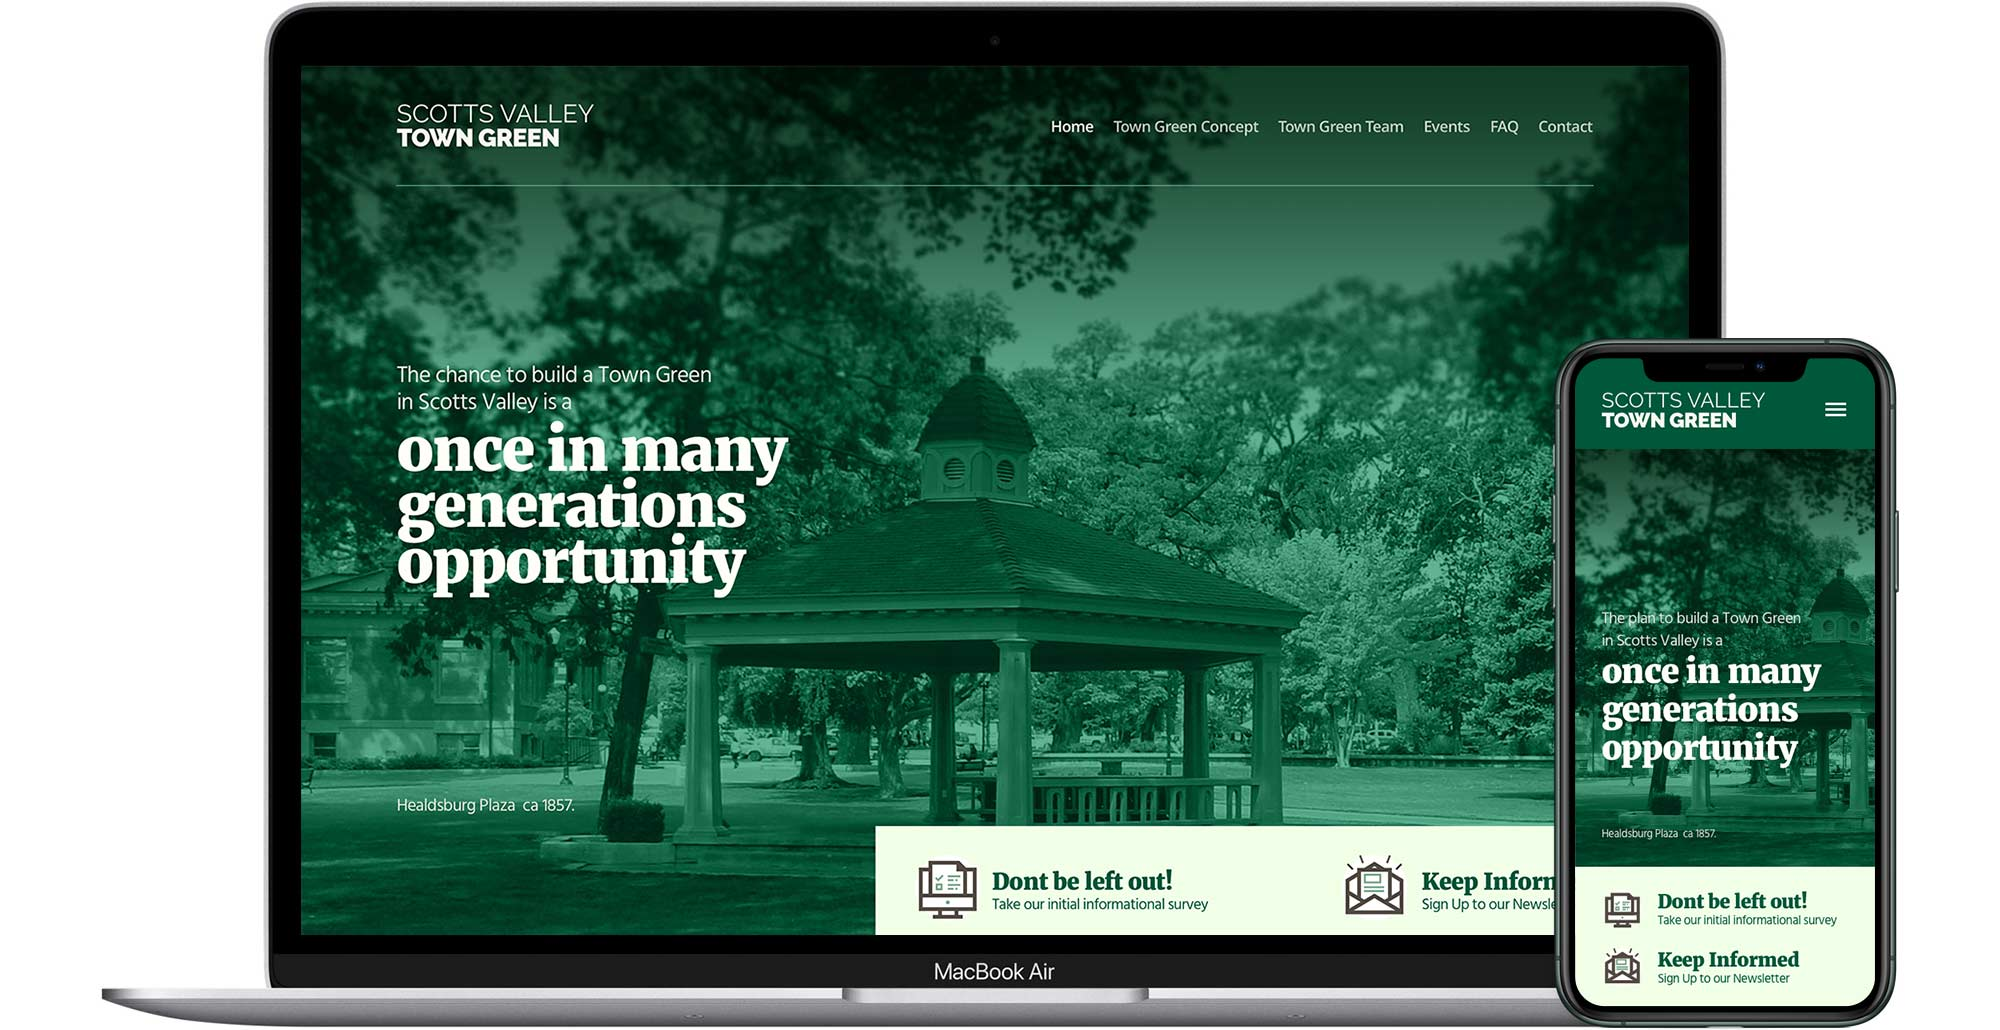
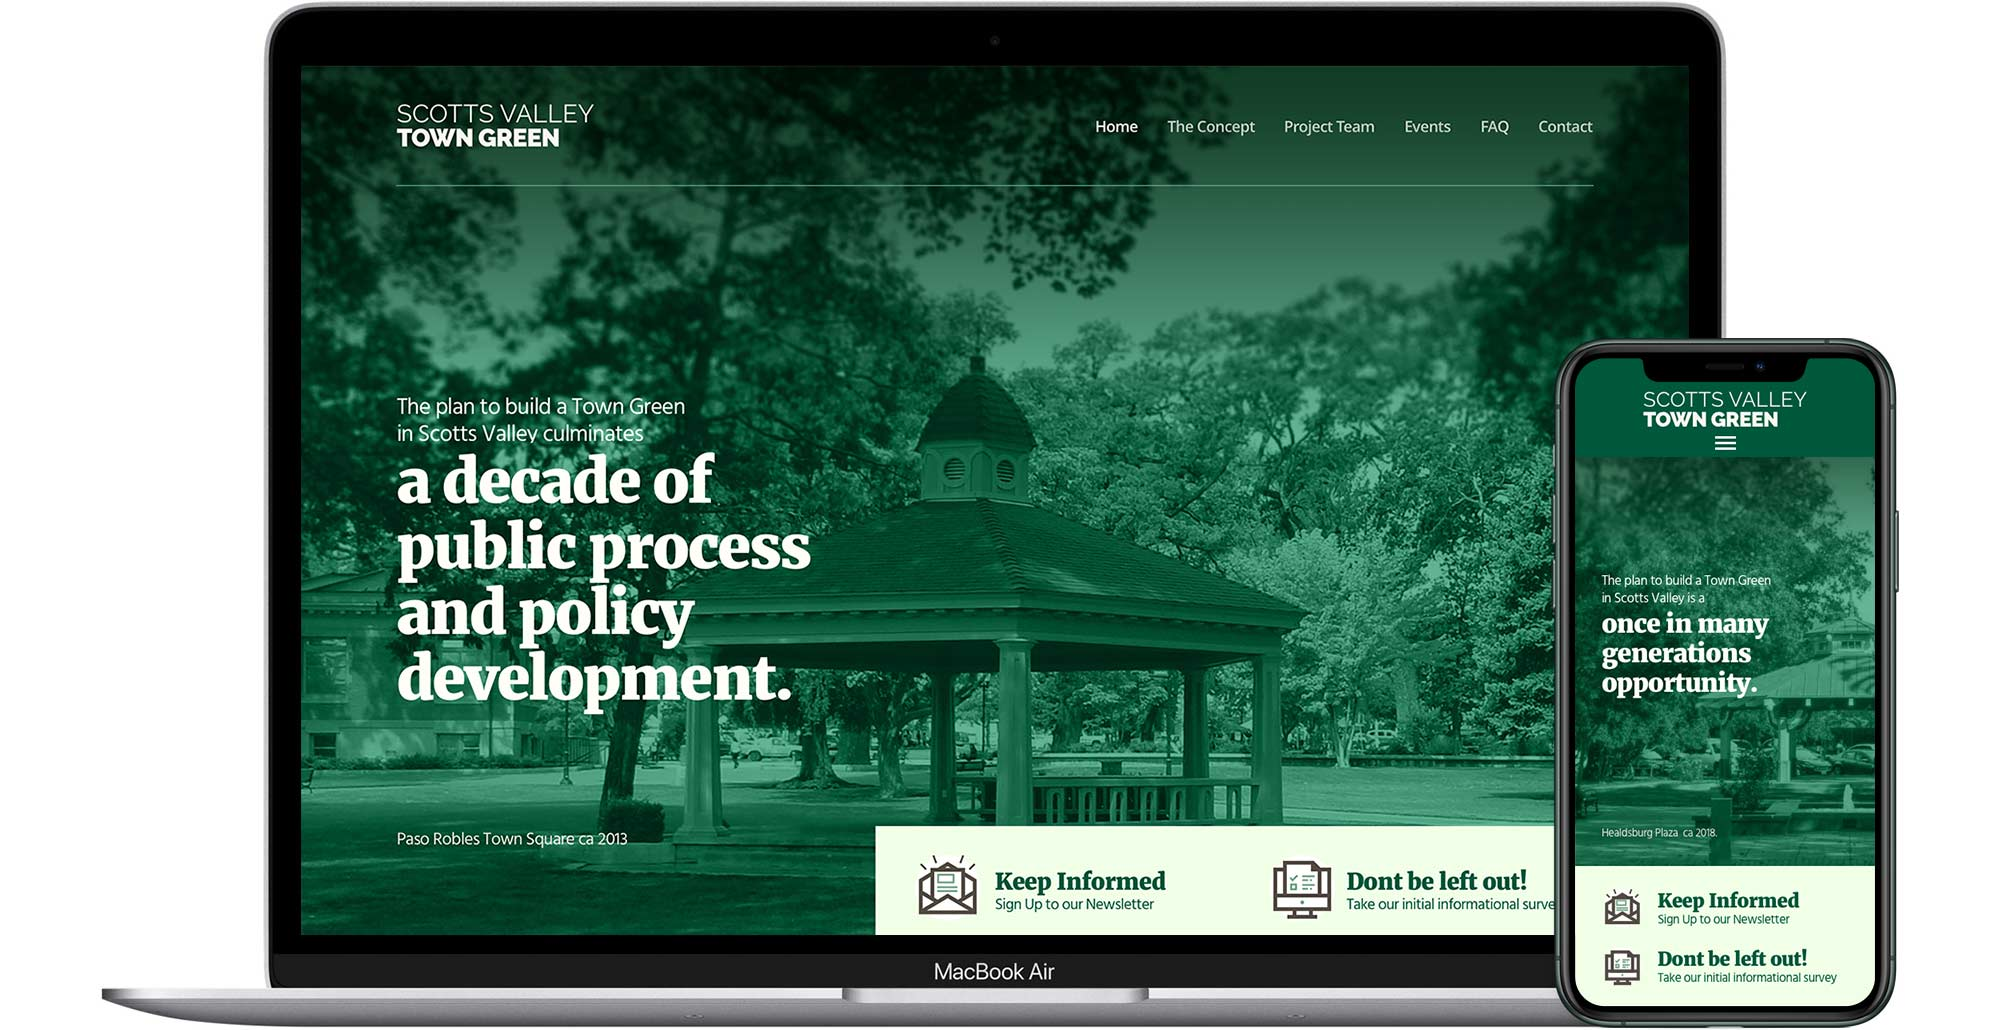
Town Green Updated

diff --git a/scss/style.scss b/scss/style.scss
@@ -246,9 +246,11 @@ h6{ font-size: 17px; font-weight: 600; margin-bottom: 20px; letter-spacing: 2px;
 		h4{ padding-right: 40%; line-height: 1.7;}}
 	.headlines{ width: 100%; margin-bottom: 50px; margin-top: 50px;
 		h1{@include fluid-type(45, 120, 480, 1500); font-weight: 800; line-height: 1; margin: 0; padding-bottom:0px; }
-		h3{@include fluid-type(25, 72, 480, 1500); font-weight: 800; line-height: 1; margin: 0; padding-bottom:5px; }
-		h4{@include fluid-type(20, 48, 480, 1500); font-weight: 400; line-height: 1; margin: 0; padding-bottom:5px; }}}
+		h3{@include fluid-type(25, 72, 480, 1500); font-weight: 600; line-height: 1; margin: 0; padding-bottom:5px; }
+		h4{@include fluid-type(38, 52, 480, 1500); font-weight: 800; line-height: 1; margin: 0; padding-bottom:80px; color:#152230;}
+		h6{@include fluid-type(20, 25, 480, 1500); font-weight: 600; line-height: 1; margin: 0; padding-bottom:20px; color:#F3A712;}}}
 
+		
 
 /* NAVBAR */
 .navbar{width: 100%; display: flex; flex-wrap: wrap; padding:30px 0; position: relative; z-index: 9; @include transition;
@@ -389,7 +391,7 @@ h6{ font-size: 17px; font-weight: 600; margin-bottom: 20px; letter-spacing: 2px;
 	h6{font-size: 16px; font-weight: 600; margin-bottom: 5px;}
 	h5{font-size: 20px; font-weight: 600; margin-bottom: 15px;}
 	h3{font-size: 50px; font-weight: 800; margin-top: 100px;}
-	p{display: block; margin-bottom: 50px;}}
+	p{display: block; margin-bottom: 50px; padding-right: 35px;}}
 
 
 /* FEATURED SERVICES */
@@ -449,26 +451,26 @@ h6{ font-size: 17px; font-weight: 600; margin-bottom: 20px; letter-spacing: 2px;
 
 
 /* YOUTUBE */		
-		.embed-youtube {
-			position: relative;
-			padding-bottom: 56.25%;
-			/* padding-bottom: 56.25%; - 16:9 aspect ratio (most common) */
-			/* padding-bottom: 62.5%; - 16:10 aspect ratio */
-			/* padding-bottom: 75%; - 4:3 aspect ratio */
-			padding-top: 30px;
-			height: 0;
-			overflow: hidden;
+.embed-youtube {
+		position: relative;
+		padding-bottom: 56.25%;
+		/* padding-bottom: 56.25%; - 16:9 aspect ratio (most common) */
+		/* padding-bottom: 62.5%; - 16:10 aspect ratio */
+		/* padding-bottom: 75%; - 4:3 aspect ratio */
+		padding-top: 30px;
+		height: 0;
+		overflow: hidden;
 		}
 		
-		.embed-youtube iframe,
-		.embed-youtube object,
-		.embed-youtube embed {
-			border: 0;
-			position: absolute;
-			top: 0;
-			left: 0;
-			width: 100%;
-			height: 100%;
+.embed-youtube iframe,
+.embed-youtube object,
+.embed-youtube embed {
+		border: 0;
+		position: absolute;
+		top: 0;
+		left: 0;
+		width: 100%;
+		height: 100%;
 		}
 
 

diff --git a/css/style.css b/css/style.css
@@ -993,7 +993,7 @@ moe
 
 .header .headlines h3 {
   font-size: 25px;
-  font-weight: 800;
+  font-weight: 600;
   line-height: 1;
   margin: 0;
   padding-bottom: 5px;
@@ -1012,22 +1012,44 @@ moe
 }
 
 .header .headlines h4 {
-  font-size: 20px;
-  font-weight: 400;
+  font-size: 38px;
+  font-weight: 800;
   line-height: 1;
   margin: 0;
-  padding-bottom: 5px;
+  padding-bottom: 80px;
+  color: #152230;
 }
 
 @media only screen and (min-width: 480px) {
   .header .headlines h4 {
-    font-size: calc( 20px + 28 * (100vw - 480px) / (1500 - 480));
+    font-size: calc( 38px + 14 * (100vw - 480px) / (1500 - 480));
   }
 }
 
 @media only screen and (min-width: 1500px) {
   .header .headlines h4 {
-    font-size: 48px;
+    font-size: 52px;
+  }
+}
+
+.header .headlines h6 {
+  font-size: 20px;
+  font-weight: 600;
+  line-height: 1;
+  margin: 0;
+  padding-bottom: 20px;
+  color: #F3A712;
+}
+
+@media only screen and (min-width: 480px) {
+  .header .headlines h6 {
+    font-size: calc( 20px + 5 * (100vw - 480px) / (1500 - 480));
+  }
+}
+
+@media only screen and (min-width: 1500px) {
+  .header .headlines h6 {
+    font-size: 25px;
   }
 }
 
@@ -1770,6 +1792,7 @@ img {
 .case-detail p {
   display: block;
   margin-bottom: 50px;
+  padding-right: 35px;
 }
 
 /* FEATURED SERVICES */

diff --git a/single-case.html b/single-case.html
@@ -184,11 +184,15 @@ Mexico<br>
 		<div class="col-lg-6"><figure><img src="images/works-detail04.jpg" alt="Image"></figure></div>
 		<!-- end col-6 -->
 		<div class="col-md-6">
-			<h6>URL</h6>
-			<p><a href="#" onclick='window.open("http://scottsvalleytowngreen.com/");return false;'>scottsvalleytowngreen.com</a></p>
+			<h6>COLORS</h6>
+			<p>Blue | Gray | Black | White</p>
 		</div>
 		<!-- end col-6 -->
-
+		<div class="col-md-6">
+			<h6>ICONS</h6>
+			<p>Iconify Flat Icon Set</p>
+		</div>
+		<!-- end col-6 -->
 		<div class="col-12"><figure><img src="images/works-detail05.jpg" alt="Image"></figure></div>
 		<!-- end col-12 -->
 		<div class="col-12">
@@ -205,7 +209,13 @@ Mexico<br>
   <div class="container">
     <div class="row">
       <div class="col-12">
-        <div class="career wow fadeInUp"></div>
+        <div class="career wow fadeInUp">
+          <h6>CAREER OF AGENSY UKRAINE</h6>
+          <h2>We are always looking for talented people, so let's work together</h2>
+          <div class="custom-link"><a href="#">Apply Now</a> <span></span> <i></i>
+          </div>
+          <!-- end custom-link -->
+          </div>
         <!-- end career --> 
       </div>
       <!-- end col-12 -->

diff --git a/index.html b/index.html
@@ -259,16 +259,6 @@
 </section>
 <!-- end showreel -->
 
-<div class="embed-youtube">
-  <iframe width="560" height="315" src="https://www.youtube-nocookie.com/embed/yfUgC_152PY" frameborder="0" allow="accelerometer; autoplay; clipboard-write; encrypted-media; gyroscope; picture-in-picture" allowfullscreen></iframe>
-</div>
-<!-- end youtube video -->
-
-
-
-
-
-
 <section class="featured-services" data-color="dark">
   <div class="container">
     <div class="row">
